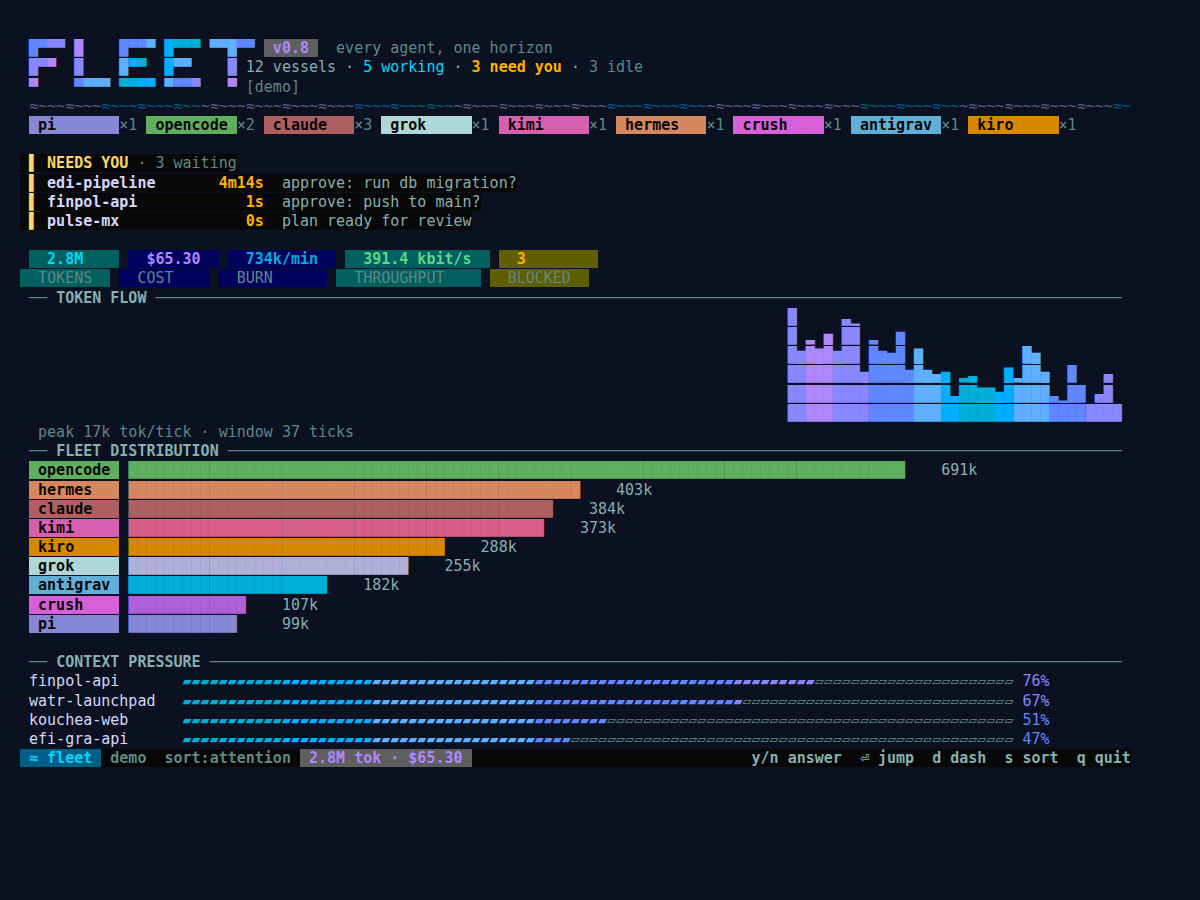
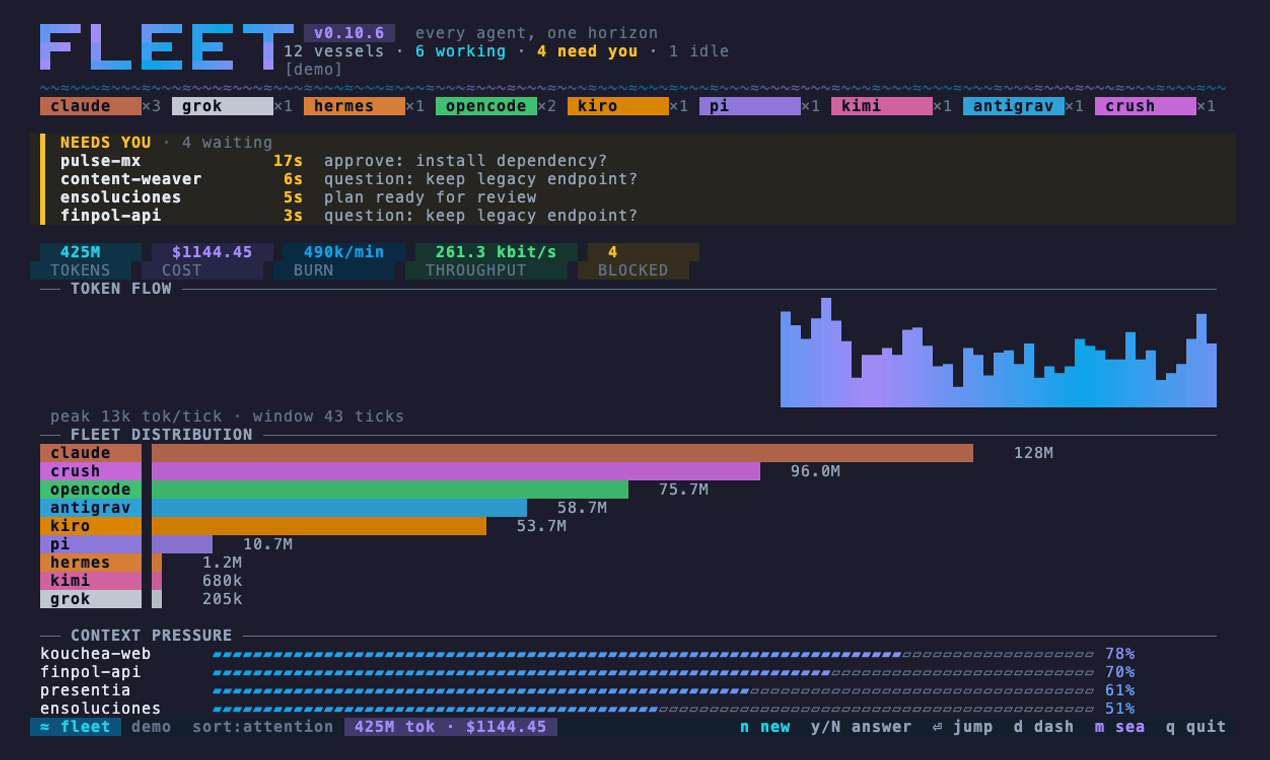
fix(ui): una sola fuente para la version + pipeline de capturas (#3)
El header de la TUI traia `const version = "v0.10.4"` hardcodeado, aparte
del flag de main. Ya habian divergido: el binario v0.10.5 que se publico
hoy responde `fleet v0.10.5` en CLI y dibuja `v0.10.4` en su propio
encabezado.

Ahora ambos leen internal/buildinfo.Version(), estampado en release con
-ldflags. No hay forma de que vuelvan a separarse.

Y como el header muestra la version, las capturas envejecen con cada
release: docs/dashboard.png llevaba mostrando **v0.8**. Se agrega el
pipeline para regenerarlas:

  docs/tapes/regen.sh v0.10.6

Compila un binario estampado y corre VHS sobre docs/tapes/*.tape. Las tres
imagenes que usa el README (list, dashboard, opensea) quedan regeneradas
a 1270x760 — el tamano de galeria de Product Hunt.

La espera de 30s antes del dashboard es a proposito: TOKEN FLOW dibuja
historia por tick y con 3s de vida salian 5 barras.

tour.gif y launcher.png siguen viejos; no tienen tape y no se usan en el
README ni en la galeria.

Claude-Session: https://claude.ai/code/session_01BmsXH9SqVCURiPqGwmnGiV

diff --git a/main.go b/main.go
@@ -8,32 +8,16 @@ import (
 	"flag"
 	"fmt"
 	"os"
-	"runtime/debug"
 	"time"
 
 	tea "github.com/charmbracelet/bubbletea"
 	"github.com/edbror/watr-fleet/internal/adapter"
+	"github.com/edbror/watr-fleet/internal/buildinfo"
 	"github.com/edbror/watr-fleet/internal/config"
 	"github.com/edbror/watr-fleet/internal/fleet"
 	"github.com/edbror/watr-fleet/internal/notify"
 	"github.com/edbror/watr-fleet/internal/ui"
 )
-
-// version is stamped at release time with -ldflags "-X main.version=<tag>".
-var version string
-
-// resolveVersion prefers the release stamp, then the module version the Go
-// toolchain records for `go install ...@latest`, so both install paths report
-// something real instead of an empty string.
-func resolveVersion() string {
-	if version != "" {
-		return version
-	}
-	if info, ok := debug.ReadBuildInfo(); ok && info.Main.Version != "" {
-		return info.Main.Version
-	}
-	return "dev"
-}
 
 func main() {
 	showVersion := flag.Bool("version", false, "print version and exit")
@@ -48,7 +32,7 @@ func main() {
 	// Answer before touching config or tmux: `fleet --version` must work on a
 	// machine where neither is set up yet.
 	if *showVersion {
-		fmt.Println("fleet", resolveVersion())
+		fmt.Println("fleet", buildinfo.Version())
 		return
 	}
 

diff --git a/internal/buildinfo/buildinfo.go b/internal/buildinfo/buildinfo.go
@@ -1,0 +1,24 @@
+// Package buildinfo resolves fleet's version once, for every part of the
+// binary that needs to show it. It exists because the version used to live in
+// two places — a const in the UI and a flag in main — and they drifted: v0.10.5
+// shipped rendering "v0.10.4" in its own header.
+package buildinfo
+
+import "runtime/debug"
+
+// version is stamped at release time with
+// -ldflags "-X github.com/edbror/watr-fleet/internal/buildinfo.version=<tag>".
+var version string
+
+// Version prefers the release stamp, then the module version the Go toolchain
+// records for `go install ...@latest`, so both install paths report something
+// real instead of an empty string.
+func Version() string {
+	if version != "" {
+		return version
+	}
+	if info, ok := debug.ReadBuildInfo(); ok && info.Main.Version != "" {
+		return info.Main.Version
+	}
+	return "dev"
+}

diff --git a/internal/ui/view.go b/internal/ui/view.go
@@ -6,6 +6,7 @@ import (
 	"time"
 
 	"github.com/charmbracelet/lipgloss"
+	"github.com/edbror/watr-fleet/internal/buildinfo"
 	"github.com/edbror/watr-fleet/internal/fleet"
 )
 
@@ -13,7 +14,9 @@ import (
 // detail card, and a full-width segmented status bar. Hierarchy from
 // color fields and spacing, not from boxing every section.
 
-const version = "v0.10.4"
+// version comes from buildinfo so the header can never drift from
+// what `fleet --version` reports. It did once: v0.10.5 rendered "v0.10.4".
+var version = buildinfo.Version()
 
 const (
 	colAgent = 10 // pill: space + 8 name + space

diff --git a/internal/buildinfo/buildinfo_test.go b/internal/buildinfo/buildinfo_test.go
@@ -1,0 +1,20 @@
+package buildinfo
+
+import "testing"
+
+// Version has three sources; the stamp must win, and an unstamped binary must
+// never report an empty version.
+func TestVersion(t *testing.T) {
+	original := version
+	defer func() { version = original }()
+
+	version = "v9.9.9"
+	if got := Version(); got != "v9.9.9" {
+		t.Errorf("stamped build: got %q, want %q", got, "v9.9.9")
+	}
+
+	version = ""
+	if got := Version(); got == "" {
+		t.Error("unstamped build returned an empty version")
+	}
+}

diff --git a/docs/launch/README.md b/docs/launch/README.md
@@ -49,6 +49,8 @@ castiga.
 ## Abierto
 
 - **La fórmula vive en la raíz** del tap, no en `Formula/`. Homebrew lo acepta, pero `raw.githubusercontent.com/edbror/homebrew-tap/main/Formula/watr-fleet.rb` da 404 — si alguien la busca ahí, no la encuentra. Moverla a `Formula/` es cosmético pero gratis.
-- **Falta un frame que explique el producto sin leer:** 1270×760, la cola de bloqueados visible, anotado con algo tipo *"this one has been waiting 4 min"*. Sirve para PH, para LinkedIn y para el README. Es lo más rentable que queda por hacer.
+- ~~Falta un frame que explique el producto sin leer~~ — hecho. `docs/list.png` a 1270×760 con la cola NEEDS YOU poblada; el demo siembra una sesión bloqueada hace 4 minutos, así que el frame se explica solo sin anotarlo.
+- **Las imágenes se regeneran con `docs/tapes/regen.sh <tag>`** (VHS). Hacerlo en cada release: el header de fleet muestra la versión, así que las capturas envejecen solas — `dashboard.png` llevaba mostrando `v0.8`.
+- **`tour.gif` y `launcher.png` siguen viejos.** No tienen tape; el tour necesita decidir qué recorrido enseña. Ninguno se usa en el README ni en la galería, así que no bloquean.
 - **No hay CI en pull requests.** `release.yml` corre solo con tags: nada valida un PR antes del merge. Un workflow de `go test` es media hora y evita taguear un release roto.
 - **Cuenta de Reddit con karma suficiente** para postear en r/commandline y r/golang. Los dos filtran cuentas nuevas.

diff --git a/docs/launch/product-hunt.md b/docs/launch/product-hunt.md
@@ -53,7 +53,7 @@ Orden importa — PH corta después de la primera imagen en el feed:
 2. `docs/dashboard.png` — la vista con números: tokens, costo, presión de contexto.
 3. `docs/list.png` — la lista de sesiones, lo que ves el 90% del tiempo.
 
-**Falta y conviene:** una imagen 1270×760 con la cola de bloqueados visible y una anotación tipo *"this one has been waiting 4 min"*. Es el único frame que explica el producto sin leer. Si hay tiempo antes de PH, es lo más rentable que puedes hacer.
+**Ya resuelto:** `docs/list.png` sale a 1270×760 con la banda NEEDS YOU poblada y los tiempos de espera visibles — el demo siembra una sesión bloqueada hace 4 minutos, así que el frame se explica solo sin anotarlo. Regenéralo con `docs/tapes/regen.sh` antes de cada release: el header muestra la versión.
 
 ---
 
